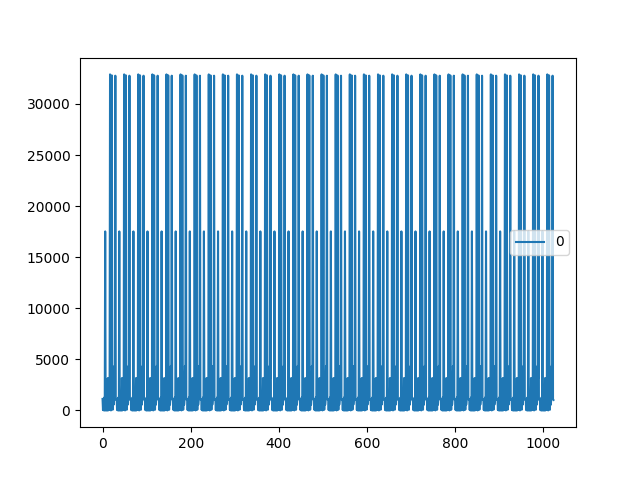
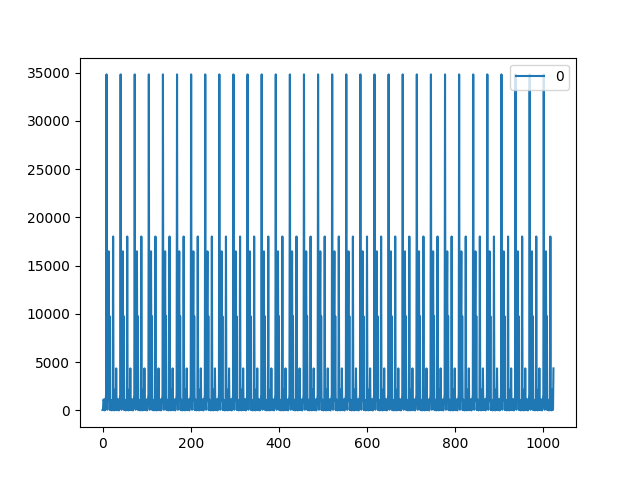
VPED 1.3V script/1.2V in board. 300 mv waveform gen

diff --git a/GUI/PulseSweep.py b/GUI/PulseSweep.py
@@ -25,11 +25,13 @@ channel=int(sys.argv[4])
 
 width = 10e-9
 ampl = 1 
-isel = 2300
+
+isel = 2000
+
 nofTARGETs=2
 pg.isel(isel)
 wave_gen().Output1(out=False)
-nmbrPedestals=40
+nmbrPedestals=10
 
 # pg.pulseInit(width)
 
@@ -37,7 +39,7 @@ pg.channel(channel)
 # pg.impedanceLoadHz(50)
 if (pedestalsON==1):
     pg.pedestals(nmbrPedestals)
-    time.sleep(500)
+    time.sleep(30)
 pg.windows(nmbrWindows, firstWindow, totalWindows)
 wave_gen().Output1(out=True)
 # time.sleep(1)
@@ -82,7 +84,7 @@ for i in range(0,repetitions,1):
 
 print("end")
 if (pedestalsON==1):
-    time.sleep(20)
+    time.sleep(10)
 else:
     time.sleep(5)
 wave_gen().Output1(out=False)

diff --git a/FMC_TargetC_Prototype/sdk/watchman_final/src/data_analysis.h b/FMC_TargetC_Prototype/sdk/watchman_final/src/data_analysis.h
@@ -36,7 +36,7 @@
 /** @brief Vped value, but in digital (2.5V <=> 2047 -> 1.75V <=> 1434 or 1.25V <=> 1024)*/
 #define VPED_DIGITAL	1434
 /** @brief Vped voltage to set up in DAC (in float)*/
-#define VPED_ANALOG		2.0//1.6 //1.75
+#define VPED_ANALOG		1.3//1.6 //1.75
 /** @brief Threshold voltage to set up in DAC for the comparator of the trigger system (in float)*/
 #define THRESHOLD_CMP_0	1.78  //1.78//1.78 //1.25/** @brief Treshold used to select the gain stage in function correct_data to send (digital value)*/
 

diff --git a/GUI/getPackets.py b/GUI/getPackets.py
@@ -11,7 +11,7 @@ def getPackets(nofPackets, pedestalsON):
     portnmbr ="8"
     curr_time = datetime.now().strftime("%Y-%m-%d_%H:%M:%S")
     capture_file_name = "/home/salvador/github/watchman-readout/GUI/traffic_" + curr_time + ".pcap"
-    num_sec_to_sleep = 640
+    num_sec_to_sleep = 30
     print(func_name + "about to create capture with name:" + capture_file_name)
     p = subprocess.Popen(["tcpdump",
                           "-ni", interface_name,
